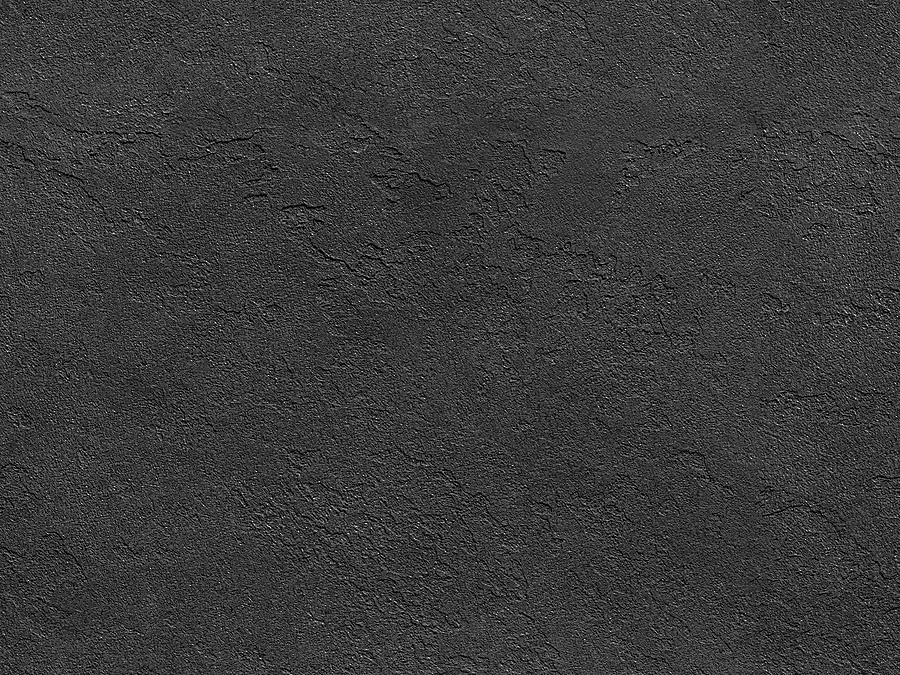
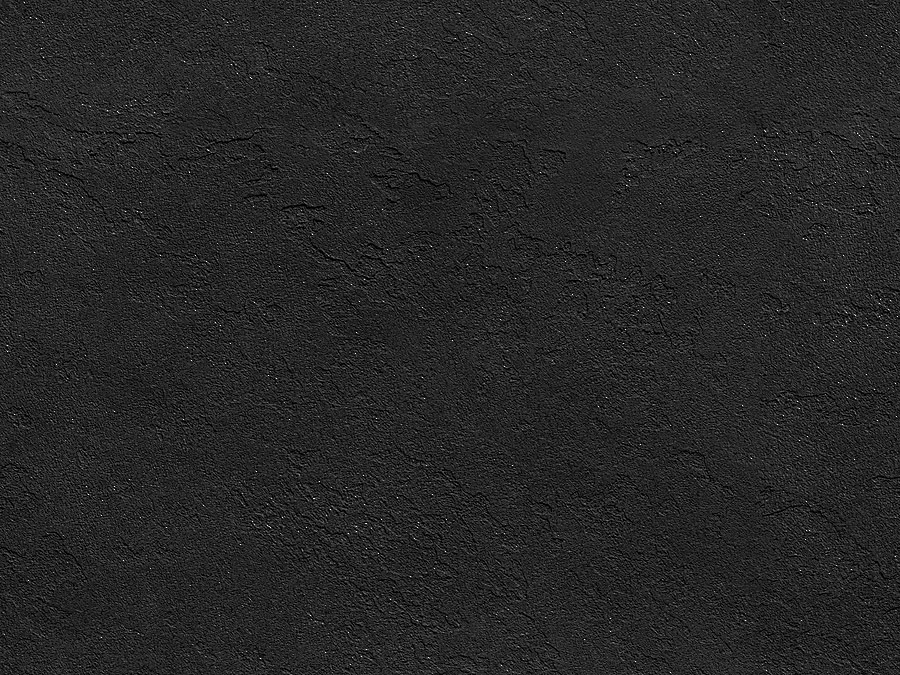
darker images

diff --git a/sites/all/modules/stlouis/stlouis_changelog.tpl.php b/sites/all/modules/stlouis/stlouis_changelog.tpl.php
@@ -27,6 +27,15 @@ db_set_active('default');
   </div>
 
   <div class="subtitle">
+    Jun 4, 2018
+  </div>
+  <ul>
+    <li>
+      New bg images
+    </li>
+  </ul>
+
+  <div class="subtitle">
     Jun 3, 2018
   </div>
   <ul>

diff --git a/sites/all/modules/stlouis/stlouis_homepage.tpl.php b/sites/all/modules/stlouis/stlouis_homepage.tpl.php
@@ -8,7 +8,7 @@
  * Synced with 2114: no
  */
 
-$version = 'v0.5.0, Jun 03 2018';
+$version = 'v0.5.0, Jun 04 2018';
 
 global $game, $phone_id;
 
